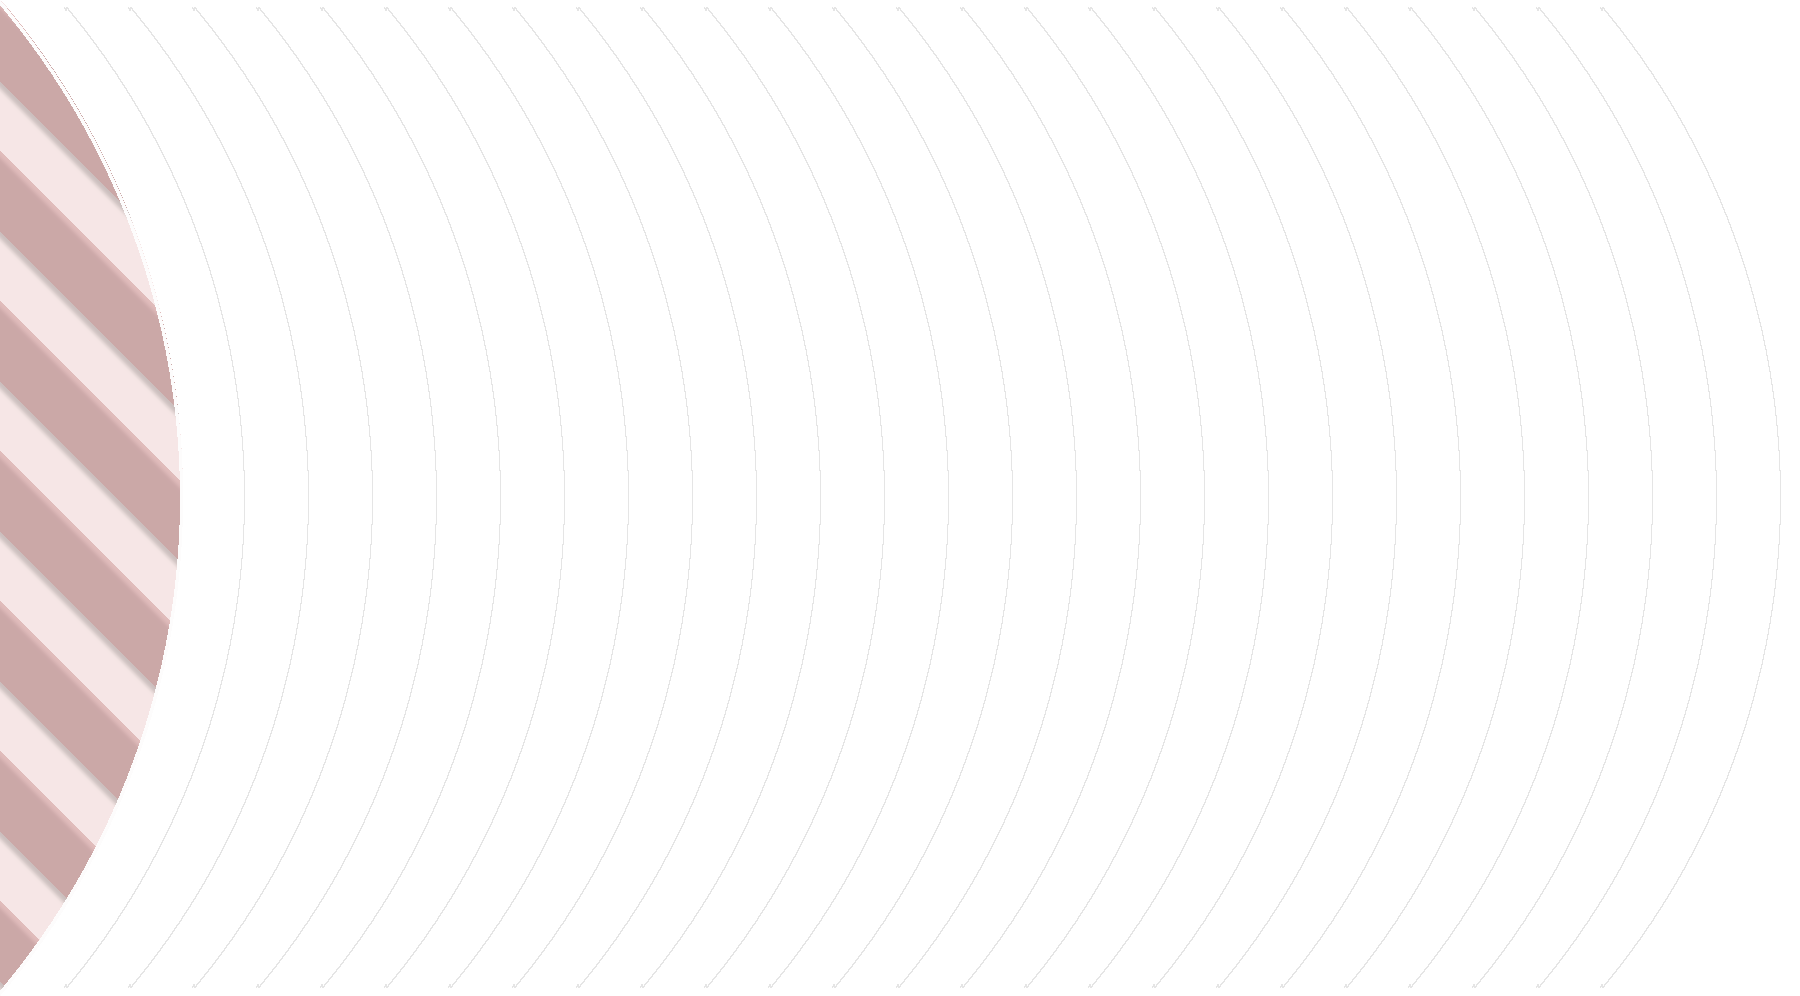
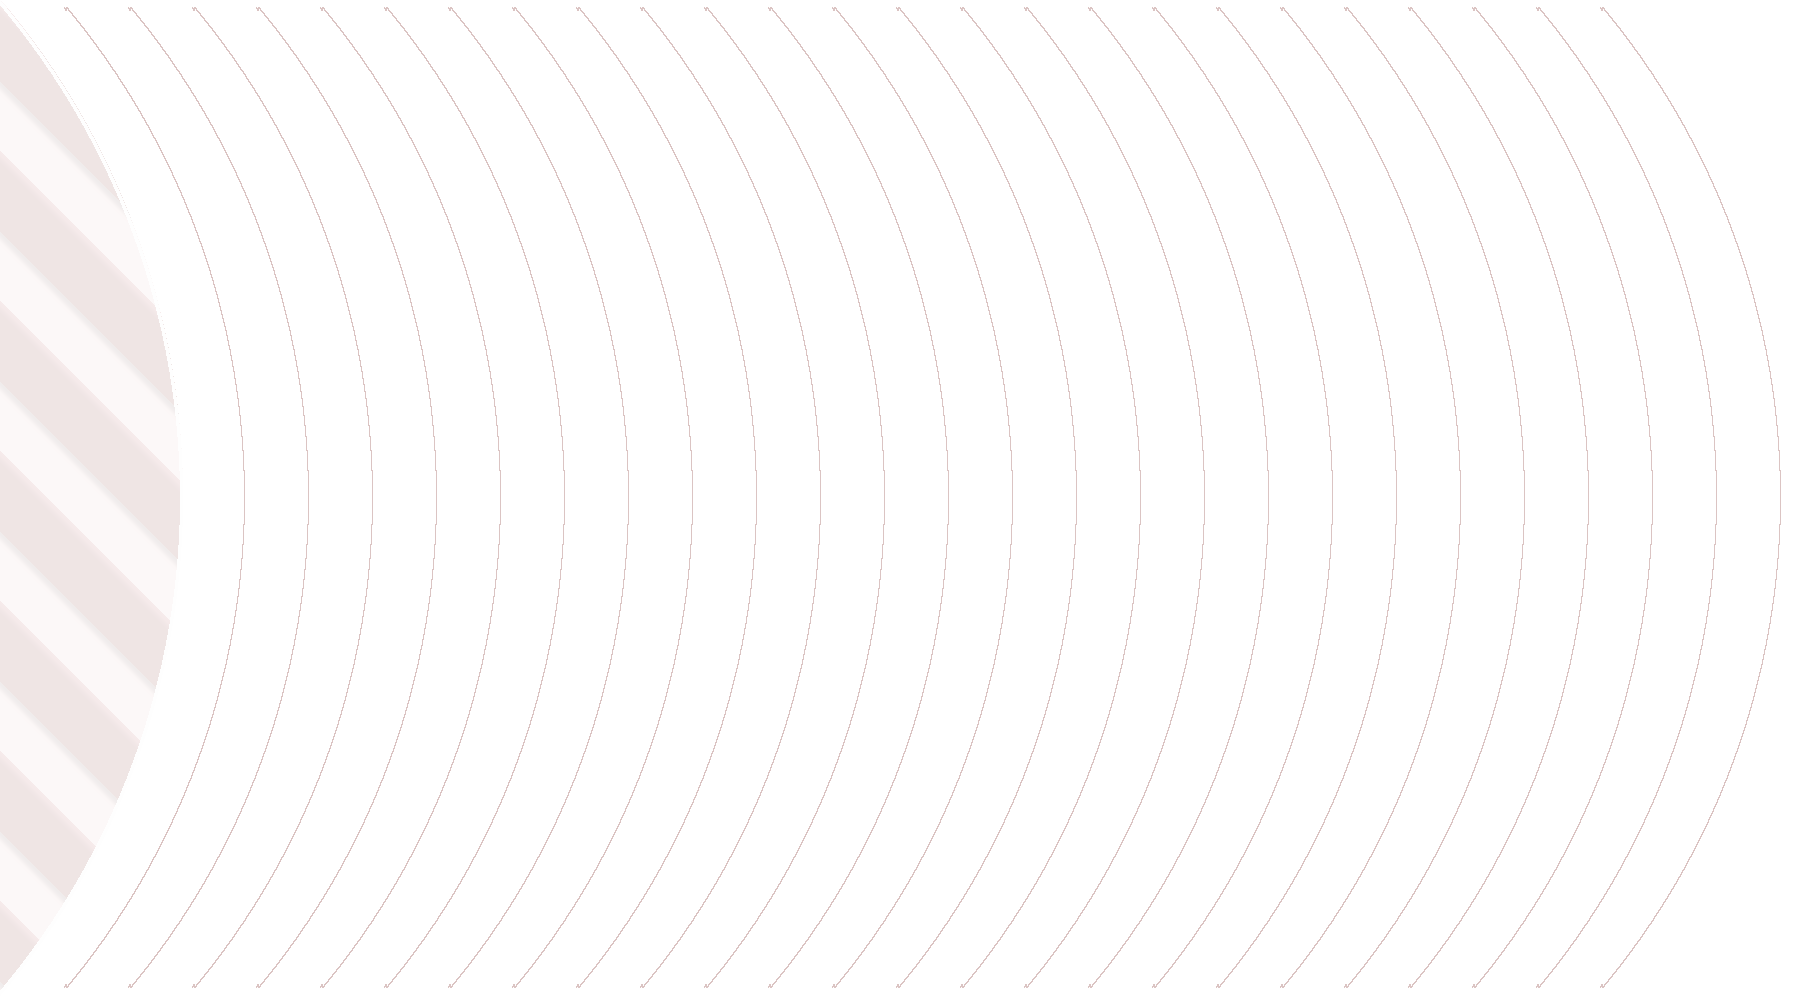
Fixed Speed UI. Reddened Fleet Pursuit

Changed region(s): [[0.0, 0.0, 0.1244, 0.996]]

diff --git a/README.md b/README.md
@@ -59,7 +59,7 @@ Mod order:
 
 ## QOL (gameplay)
 <ol>
-    <li>Map: integrated Sleeper Games + MantisManMike's Enhanced Fleet Pursuit mod, showing the Rebel Fleet's position in future jumps.</li>
+    <li>Map: integrated Sleeper Games + MantisManMike's Enhanced Fleet Pursuit mod, showing the Rebel fleet's position in future jumps. Made it redder for better contrast against very bright white portions of backgrounds, and when the fleet is delayed, better contrast against very dark portions of backgrounds (lines in map_warningcircle.png from 0, 0, 0 at 10% opacity to 137, 58, 56 at 30% opacity).</li>
     <li>Mini-Beam: increased length from 45 to 47.</li>
     <li>Advanced Flak, Flak I, Flak II, Flak Artillery: removed fake projectiles.</li>
     <li>Shifted starting crew to generally better positions. Credit to MantisManMike. Order is Pilot, Engines, Weapons, Shields:</li>
@@ -78,9 +78,10 @@ Mod order:
     <li>(Not a feature of the mod, but HS itself: HS adds a magnifying glass at the bottom right of the screen during a run, which can be clicked to show you more info such as weapon cooldowns and beacon connections.)</li>
     <li>checkCargo: Include cargo weapons/drones for event checks (you still need the relevant system).</li>
     <ol>
-        <li>Note for modders: this setting by itself allows weapons/drones to be used in choices without the system. I made custom requirement definitions in hyperspace.xml, then changed the requirements in event choices, to check for the system. You need to implement more custom requirements if your mod needs it.</li>
+        <li>Note for modders: this setting by itself allows weapons/drones to be used in choices without the system. I made custom requirement definitions in hyperspace.xml (I named them MULTIREQ_thing), then changed the requirements in event choices, to check for the system. You need to use these custom requirements, or implement more custom requirements, if you also want to check for the system.</li>
     </ol>
     <li>preIgniteChargers: Charge weapons can enter a fight fully charged if you have a Pre-Igniter.</li>
+    <li>Rebel Flagship and Rebel Elites no longer try to escape if you are out of fuel (this mechanic which is meant to avoid stalemates ironically causes an even worse stalemate in the case of these enemies). This also solves a bug where you have no fuel while fighting the Phase 3 RFS, and win when it leaves.</li>
     <li>Added Speed UI from INS+/MV. Credit to JamesTripleQ, slowriderxcorps, Arc, Chrono Vortex (and anyone else that I missed). I have also improved its performance). At the start of each run, there will be an option to toggle which Speed UI variant you want:</li>
     <ol>
         <li>Disabled: Vanilla.</li>
@@ -119,7 +120,7 @@ Mod order:
     </ol>
     <li>playerHpColorFix: HP color now scales according to a 3-third ratio instead of a hardcoded value.</li>
     <li>warningLightPositionFix: Warning lights that appear during a fire or breach are now positioned correctly.</li>
-    <li>shiftotherelementsslightlytotheleftsotheyrealigned: Fixes crew being visually offset.</li>
+    <li>shiftotherelementsslightlytotheleftsotheyrealigned: Fixes crew arrows being visually offset.</li>
     <li>EVENTS:</li>
     <ol>
         <li>MERCHANT_REQUEST: Added text to an event where an "added quest marker" message has no accompanying text.</li>
@@ -139,7 +140,6 @@ Mod order:
     <li>renameShipInRun: Enable renaming your ship during a run, via a button beside the name.</li>
     <li>allowRenameInputSpecialCharacters: Allow special characters for names, such as Japanese.</li>
     <li>insertNewlineForMultipleCrewTooltips: Inserts a newline between each unit's description in a tooltip when mousing over a tile where multiple units are fighting.</li>
-    <li>Rebel Flagship and Rebel Elites no longer try to escape if you are out of fuel (this mechanic which is meant to avoid stalemates ironically causes an even worse stalemate in the case of these enemies). This also solves a bug where you have no fuel while fighting the Phase 3 RFS, and win when it leaves.</li>
     <li>TEXT (includes changes for all languages unless otherwise stated):</li>
     <ol>
         <li>Augments Engi Med-bot Dispersal, Fire Suppression, Repair Arm and Slug Repair Gel have numbers that state their effectiveness (1.6 HP/s, 83% of baseline, 2 repairs, 75% of baseline respectively)</li>
